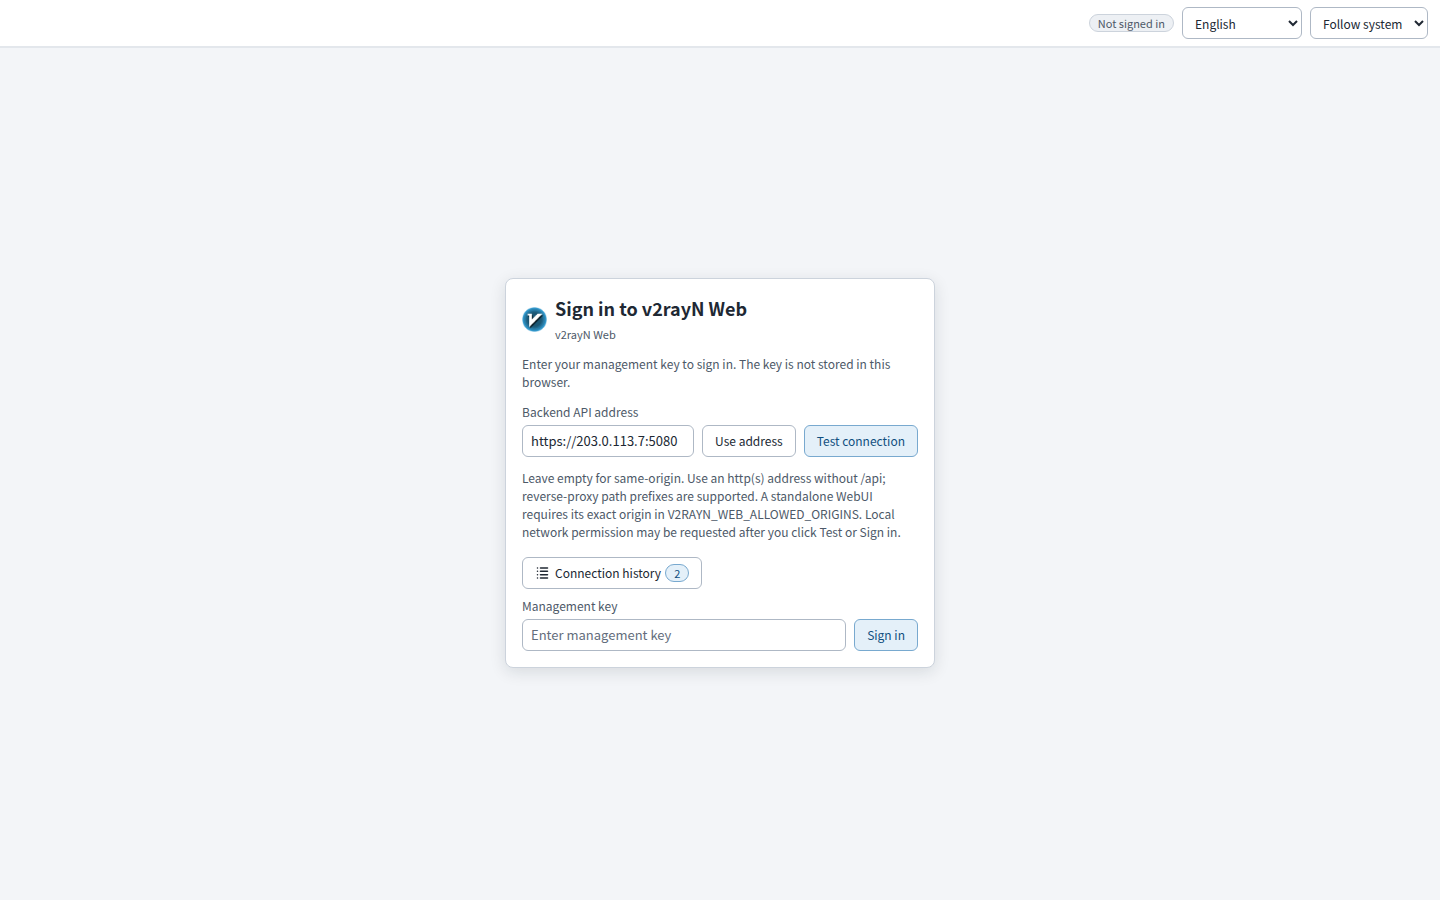
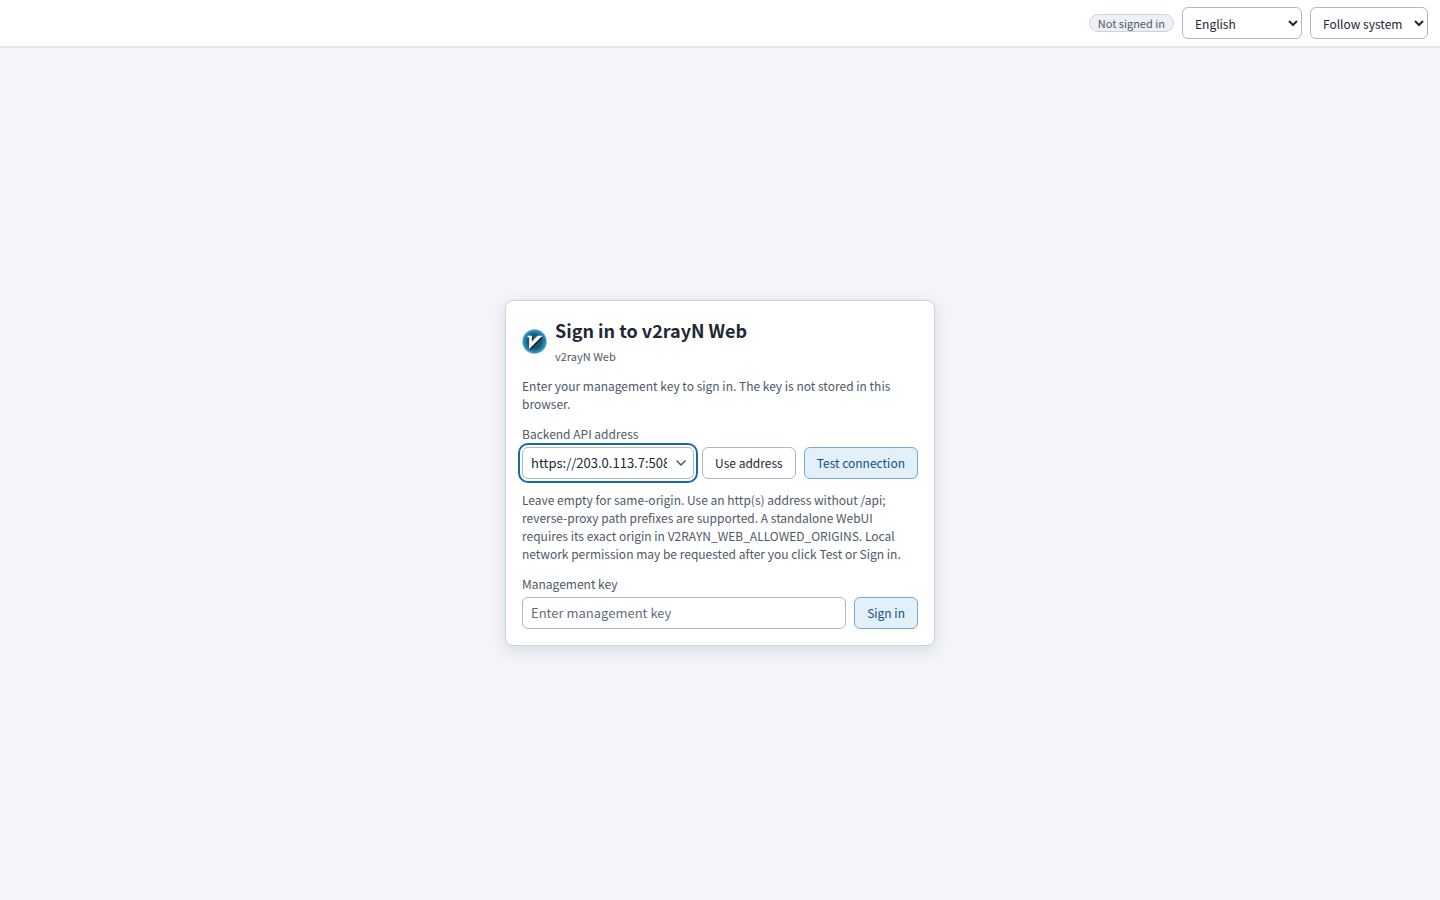
Turn Backend address history into an inline combobox dropdown

Changed region(s): [[0.3438, 0.3111, 0.6562, 0.7467]]

diff --git a/Src/Components/BackendAddressFields.vue b/Src/Components/BackendAddressFields.vue
@@ -1,47 +1,77 @@
 <script setup lang="ts">
-import { nextTick, ref } from 'vue'
+import { onUnmounted, ref, watch } from 'vue'
 import { useI18n } from 'vue-i18n'
 import UiIcon from './UiIcon.vue'
-import BackendHistoryDialog from './BackendHistoryDialog.vue'
 
 const { t } = useI18n()
 const model = defineModel<string>({ default: '' })
 const props = withDefaults(defineProps<{ testing: boolean; error: string; history?: string[] }>(), { history: () => [] })
 const emit = defineEmits<{ apply: []; test: []; forget: [address: string] }>()
-const showHistory = ref(false)
-const historyTrigger = ref<HTMLButtonElement | null>(null)
+const open = ref(false)
+const combo = ref<HTMLElement | null>(null)
+const input = ref<HTMLInputElement | null>(null)
+const toggle = ref<HTMLButtonElement | null>(null)
 
-function openHistory() {
-  showHistory.value = true
+function closeMenu() {
+  open.value = false
 }
-async function closeHistory() {
-  showHistory.value = false
-  await nextTick()
-  historyTrigger.value?.focus({ preventScroll: true })
+function toggleMenu() {
+  if (props.history.length) open.value = !open.value
 }
 function chooseHistory(address: string) {
   model.value = address
   emit('apply') // Reuse the existing Session cancellation/switch flow; never connects automatically.
-  void closeHistory()
+  closeMenu()
+  input.value?.focus({ preventScroll: true })
 }
 function forgetAddress(address: string) {
   emit('forget', address)
 }
+function onPointerDown(event: PointerEvent) {
+  if (event.target instanceof Node && !combo.value?.contains(event.target)) closeMenu()
+}
+function onWindowKeydown(event: KeyboardEvent) {
+  if (event.key !== 'Escape') return
+  event.preventDefault()
+  event.stopPropagation()
+  closeMenu()
+  toggle.value?.focus({ preventScroll: true })
+}
+watch(open, value => {
+  if (value) {
+    document.addEventListener('pointerdown', onPointerDown)
+    window.addEventListener('keydown', onWindowKeydown, true)
+  } else {
+    document.removeEventListener('pointerdown', onPointerDown)
+    window.removeEventListener('keydown', onWindowKeydown, true)
+  }
+})
+onUnmounted(() => {
+  document.removeEventListener('pointerdown', onPointerDown)
+  window.removeEventListener('keydown', onWindowKeydown, true)
+})
 </script>
 
 <template>
   <div class="backend-fields">
     <label class="field-label" for="api-endpoint">{{ t('backend.address') }}</label>
     <div class="inline-field">
-      <input id="api-endpoint" v-model="model" type="text" inputmode="url" autocomplete="url" spellcheck="false" placeholder="https://api.example.com" @keydown.enter.prevent="emit('test')" />
+      <div ref="combo" class="combo">
+        <input id="api-endpoint" ref="input" v-model="model" type="text" inputmode="url" autocomplete="url" spellcheck="false" placeholder="https://api.example.com" aria-haspopup="menu" :aria-expanded="open" aria-controls="backend-history-menu" @keydown.enter.prevent="emit('test')" @keydown.down.prevent="open = Boolean(props.history.length)" />
+        <button v-if="props.history.length" ref="toggle" class="combo-toggle" type="button" :aria-label="t('backend.history')" :title="t('backend.history')" aria-haspopup="menu" aria-controls="backend-history-menu" :aria-expanded="open" @click="toggleMenu"><UiIcon name="chevron-down" /></button>
+        <div v-if="open" id="backend-history-menu" class="combo-menu" role="menu" :aria-label="t('backend.history')">
+          <div v-for="address in props.history" :key="address" class="history-row">
+            <button class="action-menu-item history-choice" type="button" role="menuitem" :title="address" @click="chooseHistory(address)">{{ address }}</button>
+            <button class="tool-button danger-text" type="button" role="menuitem" :aria-label="t('backend.removeHistory')" :title="t('backend.removeHistory')" @click="forgetAddress(address)"><UiIcon name="close" /></button>
+          </div>
+          <p v-if="!props.history.length" class="muted empty-inline">{{ t('backend.historyEmpty') }}</p>
+          <p class="field-hint history-note">{{ t('backend.historyPrivacy') }}</p>
+        </div>
+      </div>
       <button class="button" type="button" @click="emit('apply')">{{ t('backend.apply') }}</button>
       <button class="button primary" type="button" :disabled="props.testing" @click="emit('test')">{{ props.testing ? t('common.working') : t('backend.test') }}</button>
     </div>
     <p class="field-hint">{{ t('backend.hint') }}</p>
     <p v-if="props.error" class="setup-error" role="alert">{{ props.error }}</p>
-    <button v-if="props.history.length" ref="historyTrigger" class="button backend-history-trigger" type="button" aria-haspopup="dialog" @click="openHistory">
-      <UiIcon name="list" />{{ t('backend.history') }}<span class="count-tag">{{ props.history.length }}</span>
-    </button>
-    <BackendHistoryDialog v-if="showHistory" :addresses="props.history" @select="chooseHistory" @remove="forgetAddress" @close="closeHistory" />
   </div>
 </template>

diff --git a/Src/style.css b/Src/style.css
@@ -907,10 +907,14 @@ button:focus-visible, a:focus-visible, input:focus-visible, select:focus-visible
 }
 .backend-fields .inline-field { flex-wrap: wrap; }
 .backend-fields .inline-field input { min-width: 140px; }
-.backend-history-trigger { margin-top: var(--space-1); }
-.history-row { display: flex; align-items: center; gap: var(--space-2); }
-.history-row .profile-picker-choice { flex: 1 1 auto; min-width: 0; }
-.history-row .profile-picker-choice strong { font-weight: var(--weight-medium); overflow-wrap: anywhere; }
+.combo { position: relative; flex: 1 1 140px; min-width: 0; display: flex; }
+.combo input { flex: 1 1 auto; min-width: 0; padding-right: 26px; }
+.combo-toggle { position: absolute; top: 50%; right: 2px; transform: translateY(-50%); width: 22px; height: 22px; display: flex; align-items: center; justify-content: center; padding: 0; border: 0; border-radius: var(--radius-control); background: transparent; color: var(--text-muted); }
+.combo-toggle:hover:not(:disabled) { background: var(--surface-hover); color: var(--text-primary); }
+.combo-menu { position: absolute; z-index: 30; top: calc(100% + var(--space-1)); left: 0; right: 0; max-height: 240px; overflow: auto; display: grid; align-content: start; gap: 1px; padding: var(--space-1); border: var(--border-width) solid var(--border-strong); border-radius: var(--radius-overlay); background: var(--menu-surface); box-shadow: var(--shadow-menu); }
+.history-row { display: flex; align-items: center; gap: var(--space-1); }
+.history-choice { flex: 1 1 auto; min-width: 0; overflow: hidden; text-overflow: ellipsis; white-space: nowrap; }
+.history-note { margin: 0; padding: var(--space-1) var(--space-2); }
 
 /* Polish: low-height status surfaces and explicit state, not another card layer. */
 @media (min-width: 761px) {
@@ -935,6 +939,8 @@ button:focus-visible, a:focus-visible, input:focus-visible, select:focus-visible
   .save-bar .draft-status { flex: 1; }
   .subscription-progress { max-width: 100%; white-space: normal; overflow-wrap: anywhere; }
   .compact-filter, .compact-filter .compact-select { max-width: 100%; }
+  .combo-toggle { width: 32px; height: 32px; }
+  .combo input { padding-right: 36px; }
 }
 @media (max-width: 460px) {
   .nodes-page-toolbar .page-title { flex-basis: 100%; }

diff --git a/docs/backend-history.md b/docs/backend-history.md
@@ -5,16 +5,18 @@ address (existing behavior) and `v2rayn-api-endpoint-history` as an ordered list
 up to 10 previously used, normalized addresses.
 
 - The login, first-run setup and local-only screens share
-  `Components/BackendAddressFields.vue`, which renders a **Connection history** button
-  (with a count) that opens `Components/BackendHistoryDialog.vue` — a picker dialog
-  where an address can be chosen or removed. The dialog closes on selection, Escape or
-  backdrop click, and returns focus to the button.
+  `Components/BackendAddressFields.vue`. The address input itself is a lightweight
+  combobox: a caret inside the field opens a dropdown of previous addresses.
+  Choosing an entry fills the field; each row has its own remove button; the menu
+  closes on selection, Escape or an outside click, and returns focus to the input
+  or the caret respectively. A short note inside the dropdown explains the local
+  storage scope.
 - History is written only after a successful `Test connection`, login or first-run
   setup. Choosing an entry updates the address and reuses the existing address-switch
   flow (session cancellation, request abort, endpoint-scoped storage); it never
   connects automatically.
-- Each dialog entry has its own remove button; removing keeps the dialog open until it
-  is closed, and the list stays this-browser only.
+- Each dropdown entry has its own remove button; removing keeps the dropdown open
+  until it is closed, and the list stays this-browser only.
 - Entries are normalized with `normalizeApiBase`: credentials, query strings,
   fragments, non-HTTP(S) schemes and duplicates never enter the list. Path prefixes
   are preserved when present.
@@ -25,6 +27,7 @@ up to 10 previously used, normalized addresses.
   ignored rather than stored, and blocked storage degrades to an empty list.
 
 Checks: `Tests/backendHistory.test.mjs` (storage, migration, dedup, limit, blocked
-storage) and `Tests/browser/backendHistory.mjs` (dialog select, per-entry remove,
-empty state, remember after test connection and login, key exclusion, desktop/mobile
-screenshots). Reviewed captures are in [screenshots/backend-history/](screenshots/backend-history/).
+storage) and `Tests/browser/backendHistory.mjs` (combobox open, Escape focus return,
+select, per-entry remove, empty state, remember after test connection and login, key
+exclusion, desktop/mobile screenshots). Reviewed captures are in
+[screenshots/backend-history/](screenshots/backend-history/).

diff --git a/README.md b/README.md
@@ -57,10 +57,10 @@ default. Serve the config file without long-lived caching. No particular public 
 domain is hard-coded in the application.
 
 Each browser also keeps a local history of recently used Backend addresses (up to 10,
-most recent first). The **Connection history** button next to the address field opens
-a picker dialog to reuse or remove entries. History is plain `localStorage` for this
-WebUI origin only; it never stores Management Keys or session tokens, and choosing an
-entry applies the address without connecting automatically.
+most recent first). The **Backend API address** field is a combobox: the caret inside
+the input opens a dropdown of previous addresses, each removable. History is plain
+`localStorage` for this WebUI origin only; it never stores Management Keys or session
+tokens, and choosing an entry applies the address without connecting automatically.
 
 For an independent site at `https://webui.example.com`, configure the Backend:
 
